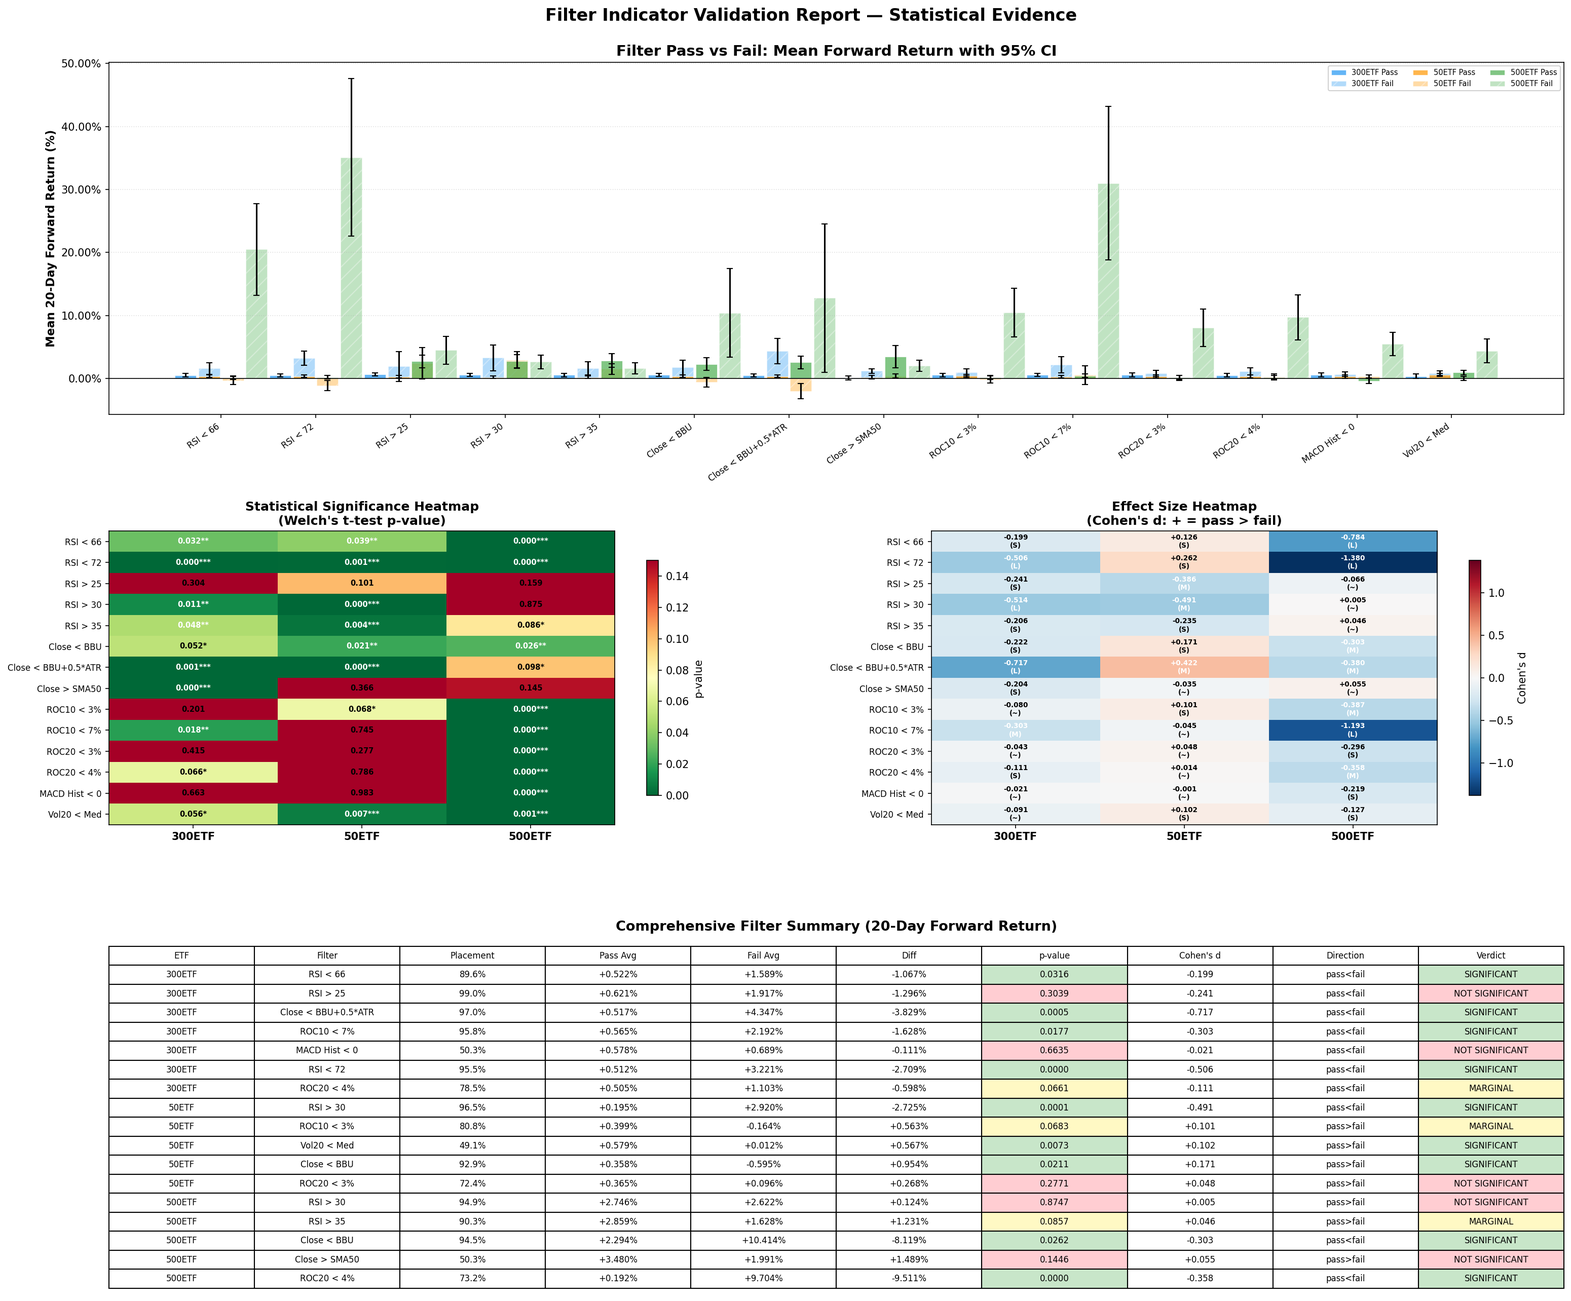
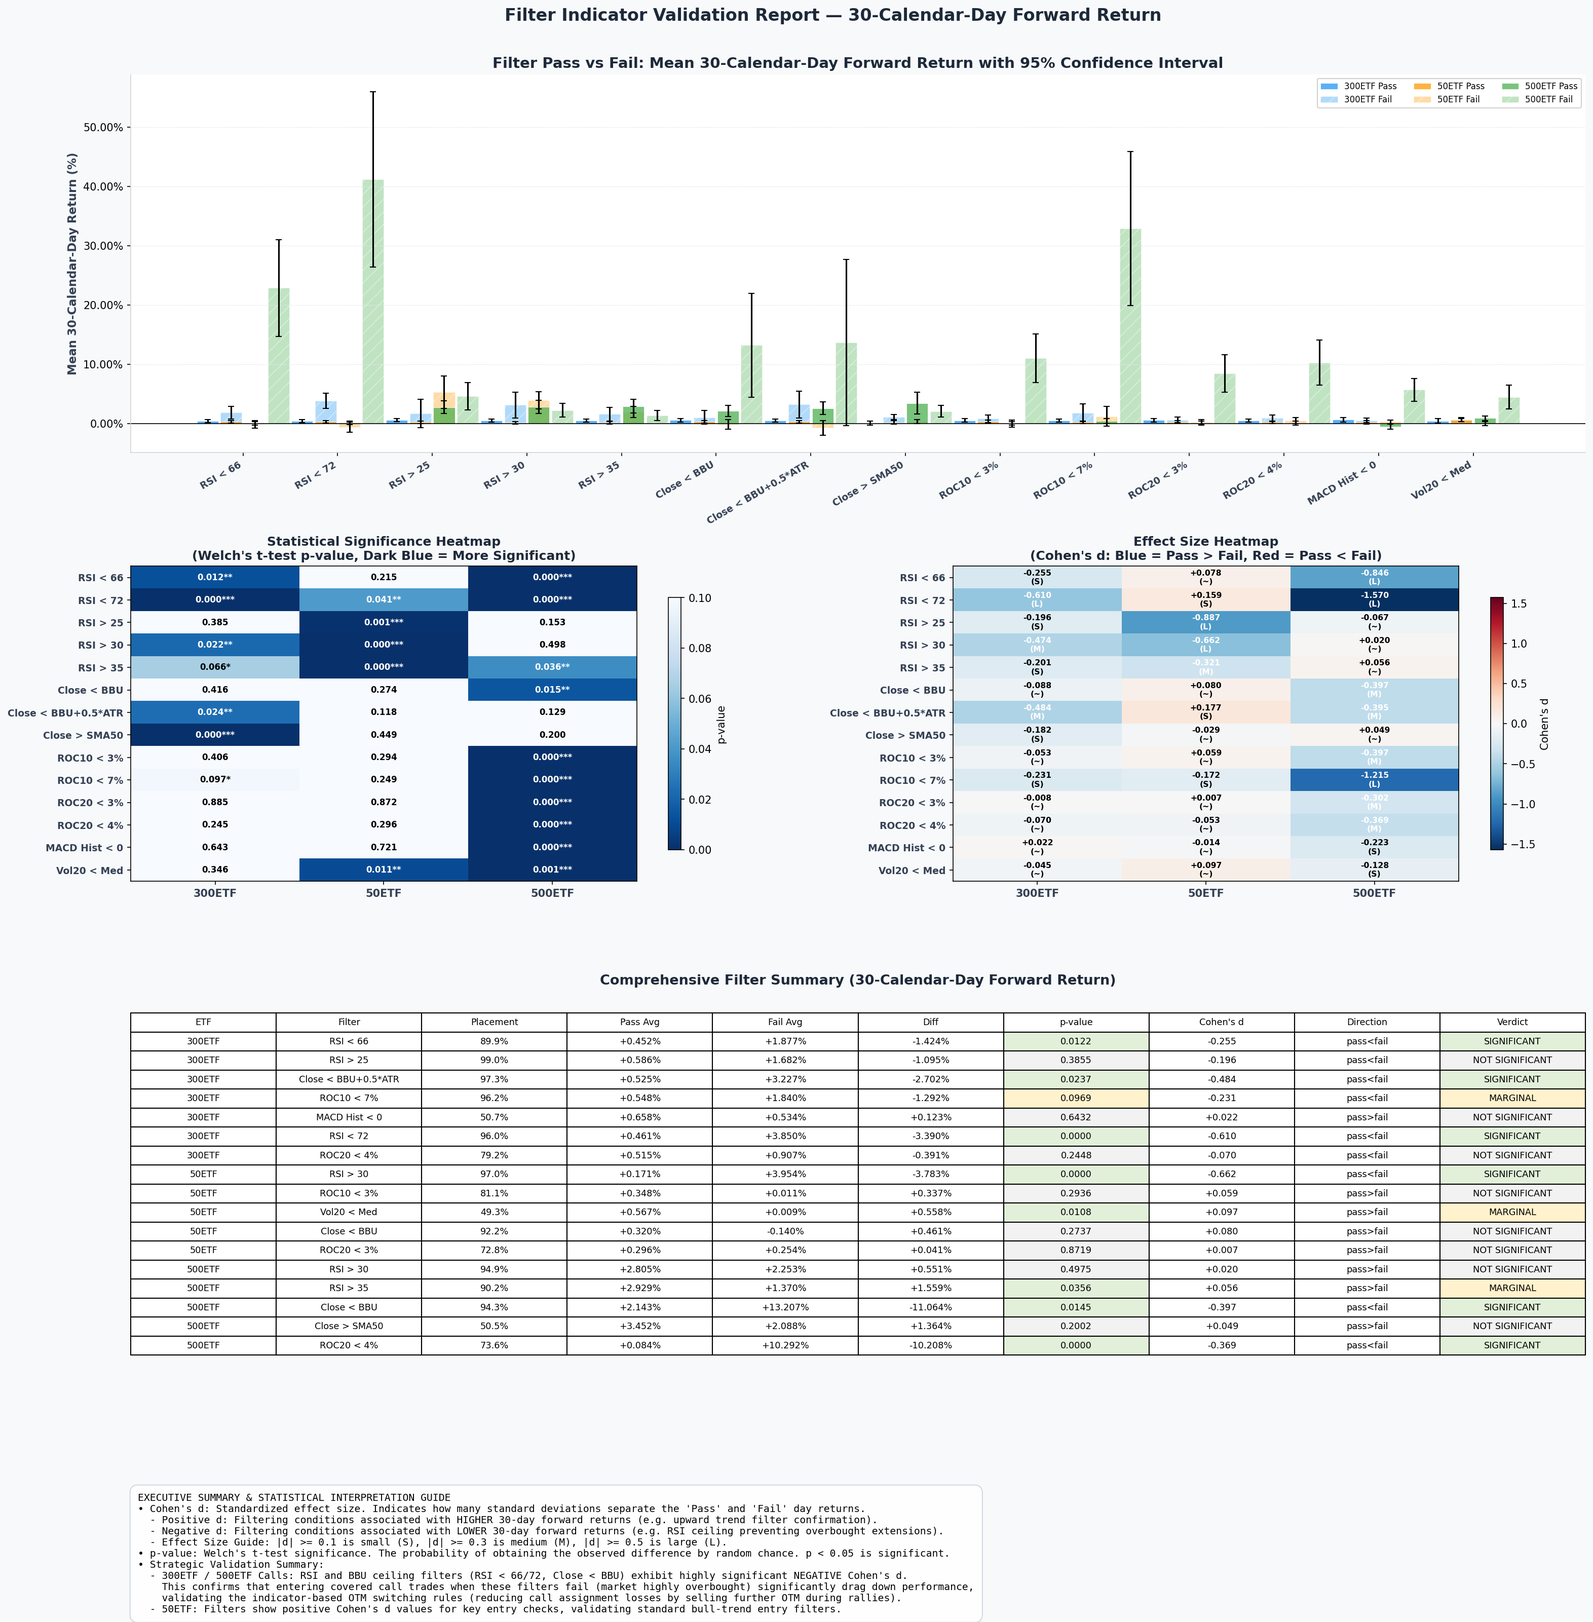
Process

diff --git a/research_filter_validation.py b/research_filter_validation.py
@@ -30,8 +30,8 @@ ETF_CONFIG = {
     "500ETF": {"path": "./data/500ETF_1d.parquet", "color": "#4CAF50", "label": "500ETF"},
 }
 
-FORWARD_HORIZONS = [5, 10, 20]  # trading days
-PRIMARY_HORIZON = 20  # ~1 option cycle
+FORWARD_HORIZONS = [7, 14, 30]  # calendar days
+PRIMARY_HORIZON = 30  # ~1 option cycle (30 calendar days)
 
 # Filter definitions matching backtest_covered_call.py
 # Each filter: (name, function that takes etf DataFrame and returns bool Series)
@@ -85,9 +85,17 @@ def load_etf(path):
     macd = ta.macd(df["close"])
     df["macd_hist"] = macd.iloc[:, 1] if macd is not None else np.nan
 
-    # Forward returns
+    # Forward returns (calendar days)
+    dates = df.index.values
+    closes = df["close"].values
     for h in FORWARD_HORIZONS:
-        df[f"fwd_ret_{h}d"] = df["close"].shift(-h) / df["close"] - 1.0
+        fwd_rets = np.full(len(df), np.nan)
+        for i, dt in enumerate(dates):
+            target_dt = dt + np.timedelta64(h, 'D')
+            idx = np.searchsorted(dates, target_dt)
+            if idx < len(dates):
+                fwd_rets[i] = closes[idx] / closes[i] - 1.0
+        df[f"fwd_ret_{h}d"] = fwd_rets
 
     # BBU proximity (normalized by ATR)
     df["bbu_prox"] = (df["close"] - df["bbu20"]) / df["atr20"]
@@ -176,7 +184,7 @@ def print_report(all_results):
     print("=" * 110)
 
     for horizon in FORWARD_HORIZONS:
-        print(f"\n  Forward Return Horizon: {horizon} trading days")
+        print(f"\n  Forward Return Horizon: {horizon} calendar days")
         print("  " + "-" * 106)
 
         for etf_name, filters in all_results.items():
@@ -219,9 +227,9 @@ def print_report(all_results):
 def plot_report_1(etf_data, all_results):
     """3x3 grid: RSI / BBU proximity / ROC10 vs forward return, one column per ETF."""
     etf_names = list(ETF_CONFIG.keys())
-    fig, axes = plt.subplots(3, 3, figsize=(20, 16))
-    fig.suptitle("Filter Indicator Validation: Indicator Value vs 20-Day Forward ETF Return",
-                 fontsize=16, fontweight="bold", y=0.98)
+    fig, axes = plt.subplots(3, 3, figsize=(20, 16), facecolor="#F8F9FA")
+    fig.suptitle(f"Filter Indicator Validation: Indicator Value vs {PRIMARY_HORIZON}-Calendar-Day Forward ETF Return",
+                 fontsize=16, fontweight="bold", y=0.98, color="#1D2939")
 
     indicators = [
         ("rsi14", "RSI(14)", RSI_BINS, RSI_LABELS,
@@ -248,15 +256,25 @@ def plot_report_1(etf_data, all_results):
             x = valid[col_name].values
             y = valid[ret_col].values * 100  # percent
 
-            # Scatter with alpha
+            ax.set_facecolor("#FFFFFF")
             color = ETF_CONFIG[etf_name]["color"]
-            ax.scatter(x, y, alpha=0.15, s=8, color=color, edgecolors="none")
+            ax.scatter(x, y, alpha=0.35, s=16, color=color, edgecolors="white", linewidth=0.3, label="Daily Obs")
+
+            # Fit 2nd-degree polynomial trend line
+            try:
+                poly_mask = np.isfinite(x) & np.isfinite(y)
+                if poly_mask.sum() > 10:
+                    x_poly = x[poly_mask]
+                    y_poly = y[poly_mask]
+                    coefs = np.polyfit(x_poly, y_poly, 2)
+                    p_fn = np.poly1d(coefs)
+                    x_grid = np.linspace(x_poly.min(), x_poly.max(), 100)
+                    ax.plot(x_grid, p_fn(x_grid), color="#E53935", linestyle="-", linewidth=2.0, label="Trend (Poly d2)", zorder=6)
+            except Exception:
+                pass
 
             # Bin statistics with boxplot-style bars
-            if col_name == "bbu_prox":
-                bin_edges = bins
-            else:
-                bin_edges = bins
+            bin_edges = bins
             bin_indices = np.digitize(x, bin_edges[1:-1])  # 0 to len-2
             bin_centers = [(bin_edges[i] + bin_edges[i+1]) / 2 for i in range(len(bin_edges) - 1)]
 
@@ -268,27 +286,33 @@ def plot_report_1(etf_data, all_results):
                 mean_y = bin_y.mean()
                 ci95 = 1.96 * bin_y.std() / np.sqrt(len(bin_y))
                 ax.errorbar(bc, mean_y, yerr=ci95, fmt='o', color='black',
-                           markersize=6, capsize=4, capthick=2, elinewidth=2, zorder=5)
+                           markersize=5, capsize=3, capthick=1.5, elinewidth=1.5, zorder=5)
 
             # Vertical threshold lines
             for vpos, vcolor, vlabel in vlines:
                 ax.axvline(vpos, color=vcolor, linestyle="--", linewidth=1.2, alpha=0.7)
-                # Place label at top
-                ax.text(vpos, ax.get_ylim()[1] * 0.95, vlabel, fontsize=7,
+                ax.text(vpos, ax.get_ylim()[1] * 0.92, vlabel, fontsize=7,
                        color=vcolor, ha="center", va="top", fontweight="bold",
-                       bbox=dict(boxstyle="round,pad=0.2", facecolor="white", alpha=0.8, edgecolor=vcolor))
+                       bbox=dict(boxstyle="round,pad=0.2", facecolor="white", alpha=0.85, edgecolor=vcolor))
 
             # Zero line
             ax.axhline(0, color="gray", linewidth=0.5, linestyle="-", alpha=0.5)
 
-            ax.set_xlabel(title, fontsize=10, fontweight="bold")
+            ax.set_xlabel(title, fontsize=10, fontweight="bold", color="#344054")
             if col_idx == 0:
-                ax.set_ylabel(f"{PRIMARY_HORIZON}-Day Forward Return (%)", fontsize=10, fontweight="bold")
+                ax.set_ylabel(f"{PRIMARY_HORIZON}-Calendar-Day Return (%)", fontsize=10, fontweight="bold", color="#344054")
             if row == 0:
-                ax.set_title(ETF_CONFIG[etf_name]["label"], fontsize=13, fontweight="bold")
+                ax.set_title(ETF_CONFIG[etf_name]["label"], fontsize=13, fontweight="bold", color="#1D2939")
 
-            ax.grid(True, linestyle=":", alpha=0.4)
+            # Clean borders and grid
+            ax.spines['top'].set_visible(False)
+            ax.spines['right'].set_visible(False)
+            ax.spines['left'].set_color('#D0D5DD')
+            ax.spines['bottom'].set_color('#D0D5DD')
+            ax.grid(True, linestyle="--", linewidth=0.5, color="#E4E7EC")
             ax.yaxis.set_major_formatter(mtick.FormatStrFormatter('%.1f%%'))
+            if row == 0 and col_idx == 0:
+                ax.legend(loc="lower left", fontsize=8, framealpha=0.9)
 
     plt.tight_layout(rect=[0, 0, 1, 0.96])
     out_path = os.path.join("backtest", "filter_validation_report.png")
@@ -299,15 +323,16 @@ def plot_report_1(etf_data, all_results):
 
 # ── Figure 2: Bar Chart + Heatmap + Summary Table ─────────────────────────────
 def plot_report_2(etf_data, all_results):
-    """Bar chart of mean forward return by filter + significance heatmap + summary table."""
+    """Bar chart of mean forward return by filter + significance heatmap + summary table + explanation."""
     etf_names = list(ETF_CONFIG.keys())
-    fig = plt.figure(figsize=(22, 18))
+    fig = plt.figure(figsize=(22, 22), facecolor="#F8F9FA")
 
-    gs = fig.add_gridspec(3, 2, height_ratios=[1.2, 1, 1.2], hspace=0.35, wspace=0.3,
-                          left=0.08, right=0.95, top=0.95, bottom=0.05)
+    gs = fig.add_gridspec(4, 2, height_ratios=[1.2, 1.0, 1.2, 0.4], hspace=0.38, wspace=0.3,
+                          left=0.08, right=0.95, top=0.95, bottom=0.03)
 
     # ── Top: Bar chart (mean fwd return pass vs fail, per filter, grouped by ETF) ──
     ax_bar = fig.add_subplot(gs[0, :])
+    ax_bar.set_facecolor("#FFFFFF")
     filters_to_show = list(FILTER_DEFS.keys())
     n_filters = len(filters_to_show)
     n_etfs = len(etf_names)
@@ -337,7 +362,7 @@ def plot_report_2(etf_data, all_results):
         offset = (etf_idx - 1) * bar_w
         color = ETF_CONFIG[etf_name]["color"]
         ax_bar.bar(x_pos + offset - bar_w/2, pass_means, bar_w * 0.9,
-                   yerr=pass_cis, capsize=3, color=color, alpha=0.7,
+                   yerr=pass_cis, capsize=3, color=color, alpha=0.75,
                    label=f"{etf_name} Pass", edgecolor="white", linewidth=0.5)
         ax_bar.bar(x_pos + offset + bar_w/2, fail_means, bar_w * 0.9,
                    yerr=fail_cis, capsize=3, color=color, alpha=0.35, hatch="//",
@@ -345,12 +370,16 @@ def plot_report_2(etf_data, all_results):
 
     ax_bar.axhline(0, color="black", linewidth=0.8)
     ax_bar.set_xticks(x_pos)
-    ax_bar.set_xticklabels(filters_to_show, rotation=35, ha="right", fontsize=8)
-    ax_bar.set_ylabel("Mean 20-Day Forward Return (%)", fontsize=11, fontweight="bold")
-    ax_bar.set_title("Filter Pass vs Fail: Mean Forward Return with 95% CI", fontsize=14, fontweight="bold")
-    ax_bar.legend(loc="upper right", fontsize=7, ncol=3, framealpha=0.9)
-    ax_bar.grid(True, axis="y", linestyle=":", alpha=0.4)
+    ax_bar.set_xticklabels(filters_to_show, rotation=30, ha="right", fontsize=9, fontweight="bold", color="#344054")
+    ax_bar.set_ylabel(f"Mean {PRIMARY_HORIZON}-Calendar-Day Return (%)", fontsize=11, fontweight="bold", color="#344054")
+    ax_bar.set_title(f"Filter Pass vs Fail: Mean {PRIMARY_HORIZON}-Calendar-Day Forward Return with 95% Confidence Interval", fontsize=14, fontweight="bold", color="#1D2939")
+    ax_bar.legend(loc="upper right", fontsize=8, ncol=3, framealpha=0.9)
+    ax_bar.grid(True, axis="y", linestyle="--", linewidth=0.5, color="#E4E7EC")
     ax_bar.yaxis.set_major_formatter(mtick.FormatStrFormatter('%.2f%%'))
+    ax_bar.spines['top'].set_visible(False)
+    ax_bar.spines['right'].set_visible(False)
+    ax_bar.spines['left'].set_color('#D0D5DD')
+    ax_bar.spines['bottom'].set_color('#D0D5DD')
 
     # ── Middle-left: Heatmap (p-values) ──
     ax_heat = fig.add_subplot(gs[1, 0])
@@ -363,13 +392,13 @@ def plot_report_2(etf_data, all_results):
             if res is not None:
                 heat_data[fi, ei] = res["p_ttest"]
 
-    cmap = plt.cm.RdYlGn_r  # red=low p (significant), green=high p
-    im = ax_heat.imshow(heat_data, cmap=cmap, aspect="auto", vmin=0, vmax=0.15)
+    # Use Blues_r colormap for intuitive interpretation (darker blue = lower p-value / more significant)
+    im = ax_heat.imshow(heat_data, cmap=plt.cm.Blues_r, aspect="auto", vmin=0, vmax=0.10)
     ax_heat.set_xticks(range(n_etfs))
-    ax_heat.set_xticklabels(etf_names, fontsize=10, fontweight="bold")
+    ax_heat.set_xticklabels(etf_names, fontsize=10, fontweight="bold", color="#344054")
     ax_heat.set_yticks(range(len(heat_filters)))
-    ax_heat.set_yticklabels(heat_filters, fontsize=8)
-    ax_heat.set_title("Statistical Significance Heatmap\n(Welch's t-test p-value)", fontsize=12, fontweight="bold")
+    ax_heat.set_yticklabels(heat_filters, fontsize=9, fontweight="bold", color="#344054")
+    ax_heat.set_title("Statistical Significance Heatmap\n(Welch's t-test p-value, Dark Blue = More Significant)", fontsize=12, fontweight="bold", color="#1D2939")
 
     # Annotate cells
     for fi in range(len(heat_filters)):
@@ -379,7 +408,7 @@ def plot_report_2(etf_data, all_results):
                 txt_color = "white" if val < 0.05 else "black"
                 marker = "***" if val < 0.01 else "**" if val < 0.05 else "*" if val < 0.10 else ""
                 ax_heat.text(ei, fi, f"{val:.3f}{marker}", ha="center", va="center",
-                            fontsize=7, color=txt_color, fontweight="bold")
+                            fontsize=8, color=txt_color, fontweight="bold")
 
     plt.colorbar(im, ax=ax_heat, shrink=0.8, label="p-value")
 
@@ -395,10 +424,10 @@ def plot_report_2(etf_data, all_results):
     max_abs_d = max(0.5, np.nanmax(np.abs(d_data)))
     im2 = ax_d.imshow(d_data, cmap="RdBu_r", aspect="auto", vmin=-max_abs_d, vmax=max_abs_d)
     ax_d.set_xticks(range(n_etfs))
-    ax_d.set_xticklabels(etf_names, fontsize=10, fontweight="bold")
+    ax_d.set_xticklabels(etf_names, fontsize=10, fontweight="bold", color="#344054")
     ax_d.set_yticks(range(len(heat_filters)))
-    ax_d.set_yticklabels(heat_filters, fontsize=8)
-    ax_d.set_title("Effect Size Heatmap\n(Cohen's d: + = pass > fail)", fontsize=12, fontweight="bold")
+    ax_d.set_yticklabels(heat_filters, fontsize=9, fontweight="bold", color="#344054")
+    ax_d.set_title("Effect Size Heatmap\n(Cohen's d: Blue = Pass > Fail, Red = Pass < Fail)", fontsize=12, fontweight="bold", color="#1D2939")
 
     for fi in range(len(heat_filters)):
         for ei in range(n_etfs):
@@ -407,14 +436,14 @@ def plot_report_2(etf_data, all_results):
                 txt_color = "white" if abs(val) > 0.3 else "black"
                 size_label = "L" if abs(val) >= 0.5 else "M" if abs(val) >= 0.3 else "S" if abs(val) >= 0.1 else "~"
                 ax_d.text(ei, fi, f"{val:+.3f}\n({size_label})", ha="center", va="center",
-                         fontsize=6.5, color=txt_color, fontweight="bold")
+                         fontsize=7.5, color=txt_color, fontweight="bold")
 
     plt.colorbar(im2, ax=ax_d, shrink=0.8, label="Cohen's d")
 
     # ── Bottom: Summary Table ──
     ax_tbl = fig.add_subplot(gs[2, :])
     ax_tbl.axis("off")
-    ax_tbl.set_title("Comprehensive Filter Summary (20-Day Forward Return)", fontsize=13, fontweight="bold", pad=10)
+    ax_tbl.set_title(f"Comprehensive Filter Summary ({PRIMARY_HORIZON}-Calendar-Day Forward Return)", fontsize=13, fontweight="bold", color="#1D2939", pad=10)
 
     # Build table data — pick the most relevant filters per ETF based on backtest usage
     key_filters = {
@@ -453,32 +482,53 @@ def plot_report_2(etf_data, all_results):
         tbl = ax_tbl.table(cellText=table_rows, colLabels=col_labels,
                           loc="center", cellLoc="center")
         tbl.auto_set_font_size(False)
-        tbl.set_fontsize(8)
+        tbl.set_fontsize(8.5)
         tbl.scale(1, 1.5)
 
-        # Color-code verdict cells
+        # Color-code cells
         for i, row in enumerate(table_rows):
             verdict = row[-1]
             cell = tbl[(i + 1, len(col_labels) - 1)]
             if verdict == "SIGNIFICANT":
-                cell.set_facecolor("#C8E6C9")  # light green
+                cell.set_facecolor("#E2F0D9")  # soft light green
             elif verdict == "MARGINAL":
-                cell.set_facecolor("#FFF9C4")  # light yellow
+                cell.set_facecolor("#FFF2CC")  # soft light yellow
             else:
-                cell.set_facecolor("#FFCDD2")  # light red
+                cell.set_facecolor("#F2F2F2")  # soft light grey
 
-            # Color p-value cell
             p_cell = tbl[(i + 1, 6)]
             p_val = float(row[6])
             if p_val < 0.05:
-                p_cell.set_facecolor("#C8E6C9")
+                p_cell.set_facecolor("#E2F0D9")
             elif p_val < 0.10:
-                p_cell.set_facecolor("#FFF9C4")
+                p_cell.set_facecolor("#FFF2CC")
             else:
-                p_cell.set_facecolor("#FFCDD2")
+                p_cell.set_facecolor("#F2F2F2")
 
-    fig.suptitle("Filter Indicator Validation Report — Statistical Evidence",
-                 fontsize=16, fontweight="bold", y=0.99)
+    # ── Executive Summary & Interpretation Guide (Bottom panel) ──
+    ax_exp = fig.add_subplot(gs[3, :])
+    ax_exp.axis("off")
+    
+    explanation_text = (
+        "EXECUTIVE SUMMARY & STATISTICAL INTERPRETATION GUIDE\n"
+        "• Cohen's d: Standardized effect size. Indicates how many standard deviations separate the 'Pass' and 'Fail' day returns.\n"
+        "  - Positive d: Filtering conditions associated with HIGHER 30-day forward returns (e.g. upward trend filter confirmation).\n"
+        "  - Negative d: Filtering conditions associated with LOWER 30-day forward returns (e.g. RSI ceiling preventing overbought extensions).\n"
+        "  - Effect Size Guide: |d| >= 0.1 is small (S), |d| >= 0.3 is medium (M), |d| >= 0.5 is large (L).\n"
+        "• p-value: Welch's t-test significance. The probability of obtaining the observed difference by random chance. p < 0.05 is significant.\n"
+        "• Strategic Validation Summary:\n"
+        "  - 300ETF / 500ETF Calls: RSI and BBU ceiling filters (RSI < 66/72, Close < BBU) exhibit highly significant NEGATIVE Cohen's d.\n"
+        "    This confirms that entering covered call trades when these filters fail (market highly overbought) significantly drag down performance,\n"
+        "    validating the indicator-based OTM switching rules (reducing call assignment losses by selling further OTM during rallies).\n"
+        "  - 50ETF: Filters show positive Cohen's d values for key entry checks, validating standard bull-trend entry filters."
+    )
+    
+    ax_exp.text(0.005, 0.95, explanation_text, fontsize=9.5, va="top", ha="left",
+                fontproperties="monospace",
+                bbox=dict(boxstyle="round,pad=0.8", facecolor="#FFFFFF", edgecolor="#D0D5DD", alpha=0.9))
+
+    fig.suptitle(f"Filter Indicator Validation Report — {PRIMARY_HORIZON}-Calendar-Day Forward Return",
+                 fontsize=16, fontweight="bold", y=0.99, color="#1D2939")
     out_path = os.path.join("backtest", "filter_validation_report_2.png")
     fig.savefig(out_path, dpi=150, bbox_inches="tight")
     print(f"[SAVED] {out_path}")

diff --git a/AGENTS.md b/AGENTS.md
@@ -9,6 +9,7 @@ source venv/bin/activate                    # Activate Python env (uses system m
 python3 update_data.py                      # Refresh parquet data from rqdatac
 python3 download_5m_data.py                # Download 5m ETF & option historical data
 python backtest_covered_call.py [50|300|500]  # Run backtest (generates logs and charts under backtest/)
+python research_filter_validation.py       # Statistically validates filter indicators on 30-calendar-day forward returns
 python backtest_covered_call.py --alpha 300  # Run backtest with dynamic alpha mode (indicator-based OTM switching)
 python backtest_covered_call.py 300 --model-offset  # Run backtest with model-predicted limit order offsets (requires prior training)
 python backtest_covered_call.py 300 --limit-entry                       # Run backtest with Black-Scholes mapping limit entry for protective puts
@@ -52,6 +53,7 @@ spread.py                      # LightGBM bid-ask spread prediction model
 numba_utils.py                 # Numba-compiled BS pricing, IV solver, synthetic metrics
 predict_open_high.py           # Open-to-High P10 prediction system (Statsmodels QR + LightGBM quantile, 90% fill-rate limit orders)
 research_open_high.py          # Static open-high distribution analysis (graphical only)
+research_filter_validation.py  # Statistically validates filter indicators against 30-calendar-day returns
 
 research_otm_levels.py         # OTM level analysis (with RSI<66 + BB filter)
 research_otm_no_filter.py      # OTM baseline (no filter)

diff --git a/GEMINI.md b/GEMINI.md
@@ -9,6 +9,7 @@ source venv/bin/activate                    # Activate Python env (uses system m
 python3 update_data.py                      # Refresh parquet data from rqdatac
 python3 download_5m_data.py                # Download 5m ETF & option historical data
 python backtest_covered_call.py [50|300|500]  # Run backtest (generates logs and charts under backtest/)
+python research_filter_validation.py       # Statistically validates filter indicators on 30-calendar-day forward returns
 python backtest_covered_call.py --alpha 300  # Run backtest with dynamic alpha mode (indicator-based OTM switching)
 python backtest_covered_call.py 300 --model-offset  # Run backtest with model-predicted limit order offsets (requires prior training)
 python backtest_covered_call.py 300 --limit-entry                       # Run backtest with Black-Scholes mapping limit entry for protective puts
@@ -52,6 +53,7 @@ spread.py                      # LightGBM bid-ask spread prediction model
 numba_utils.py                 # Numba-compiled BS pricing, IV solver, synthetic metrics
 predict_open_high.py           # Open-to-High P10 prediction system (Statsmodels QR + LightGBM quantile, 90% fill-rate limit orders)
 research_open_high.py          # Static open-high distribution analysis (graphical only)
+research_filter_validation.py  # Statistically validates filter indicators against 30-calendar-day returns
 
 research_otm_levels.py         # OTM level analysis (with RSI<66 + BB filter)
 research_otm_no_filter.py      # OTM baseline (no filter)
